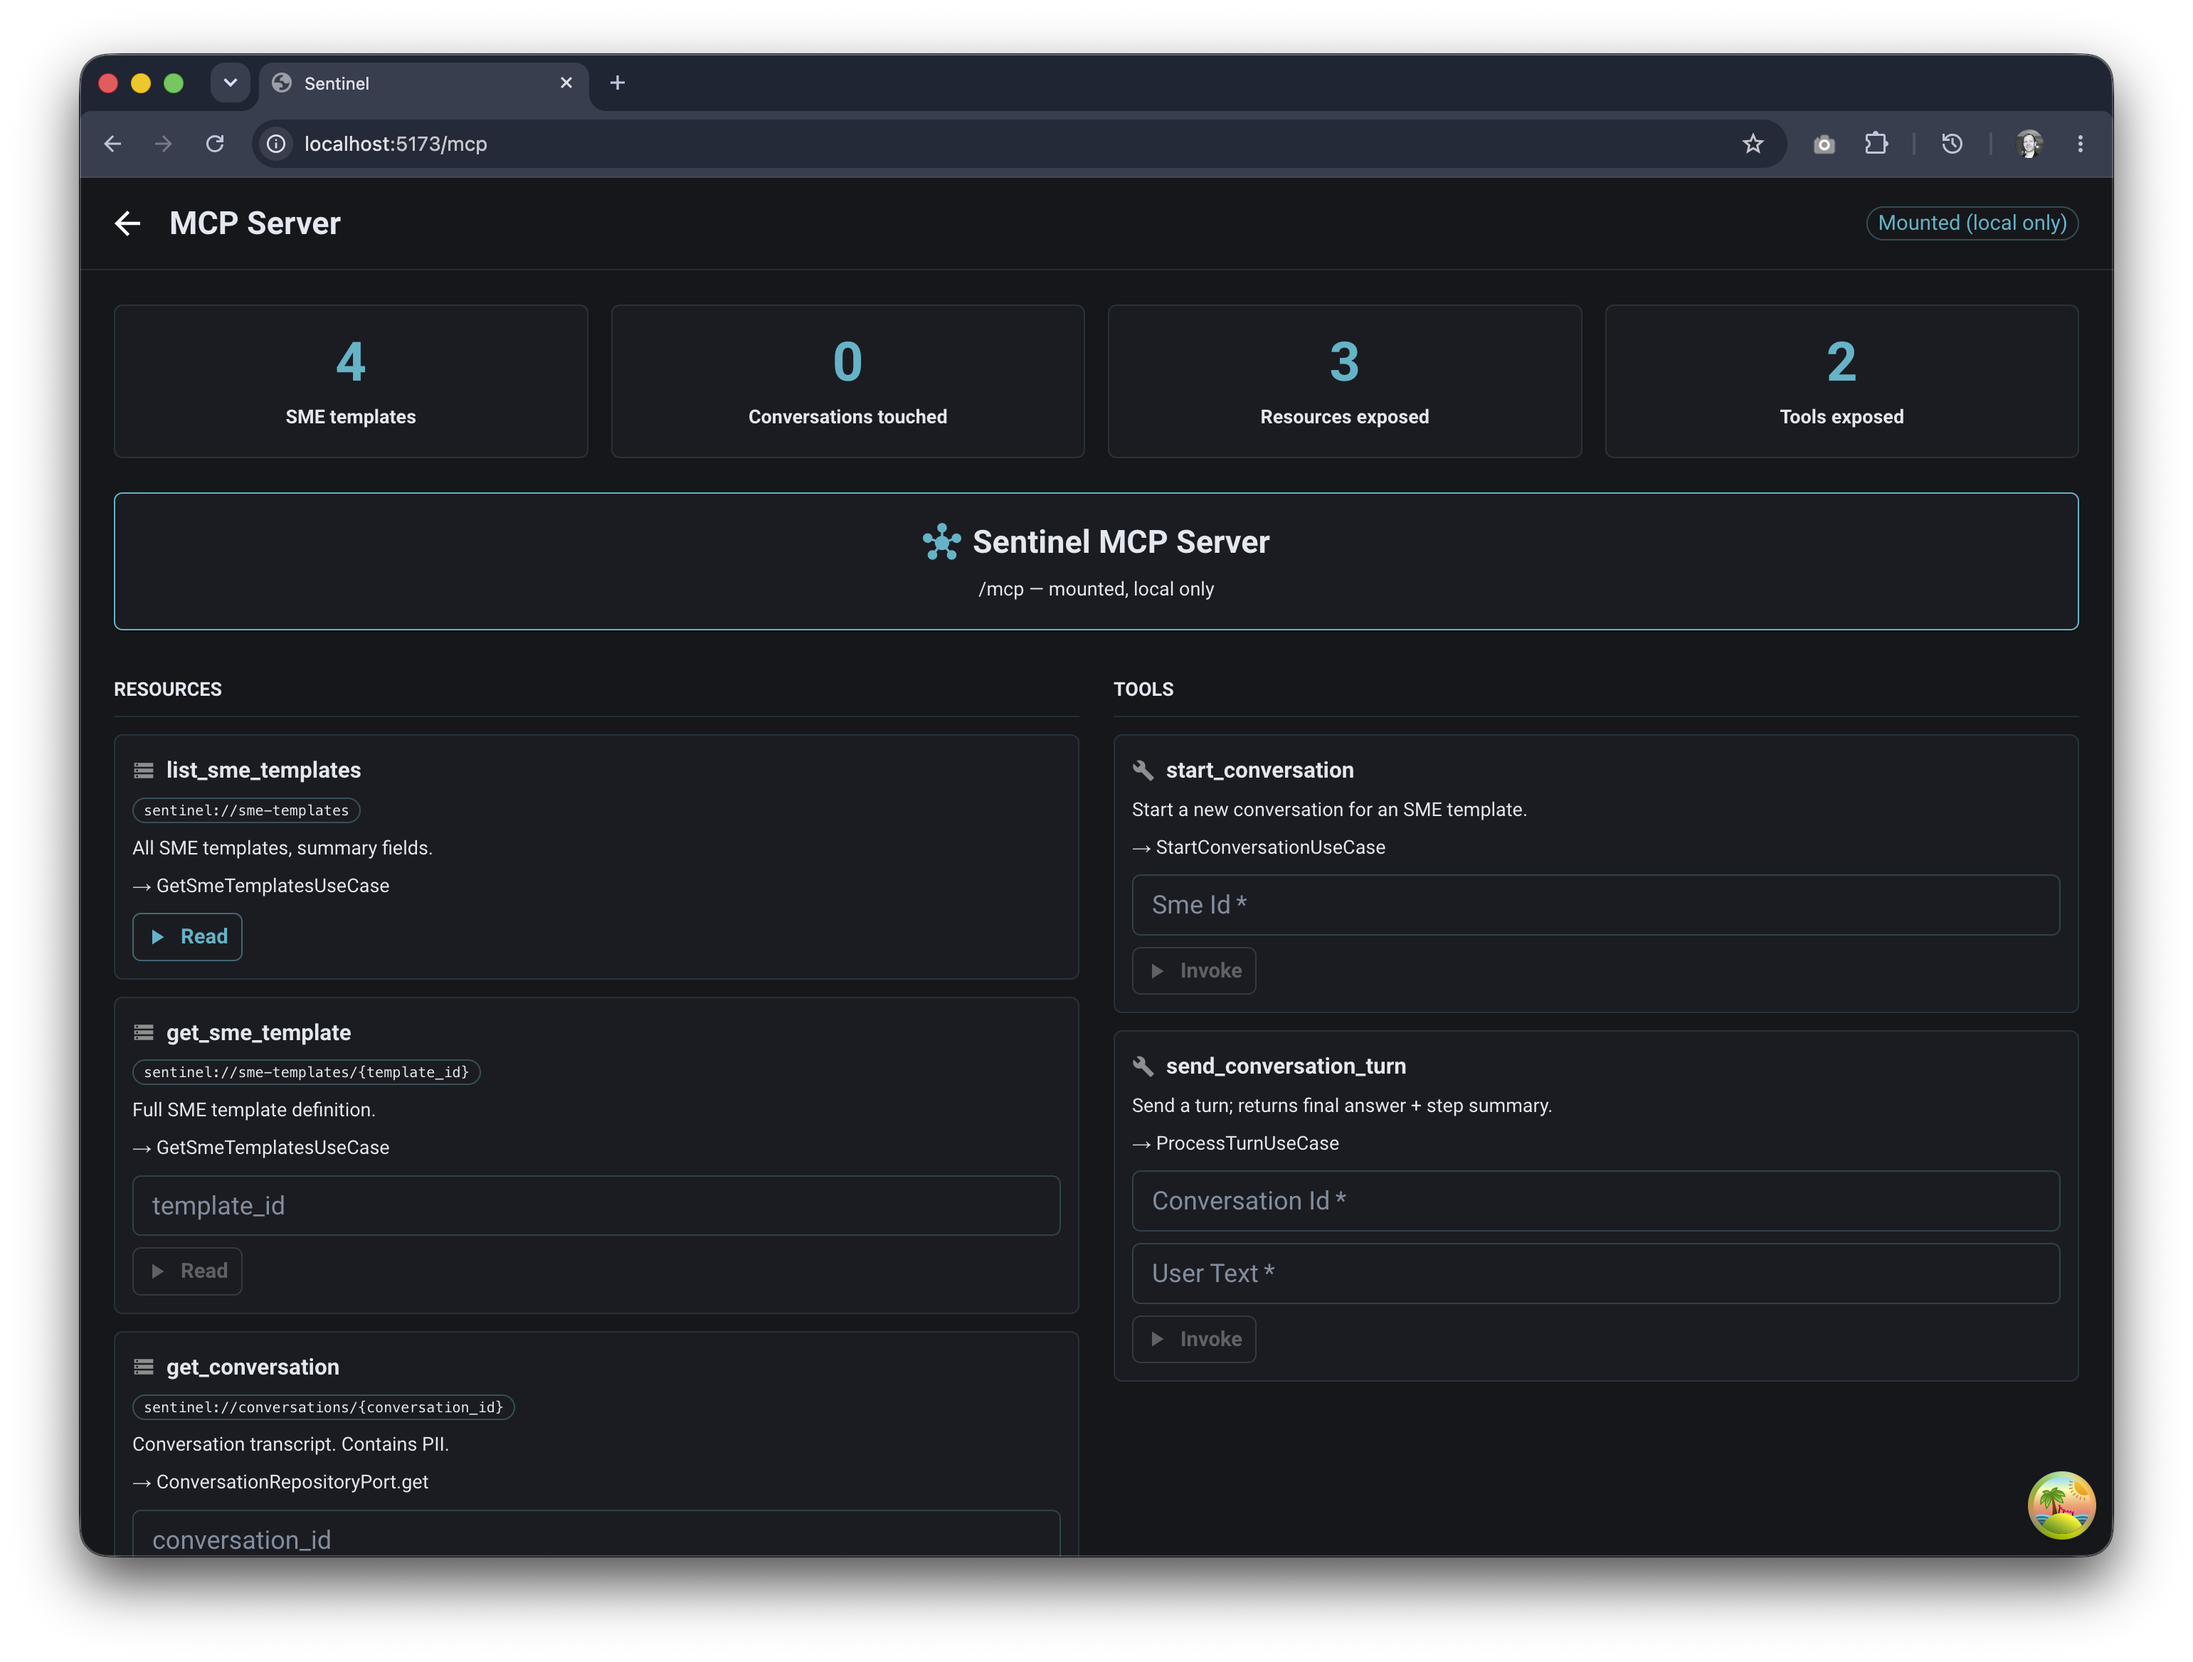
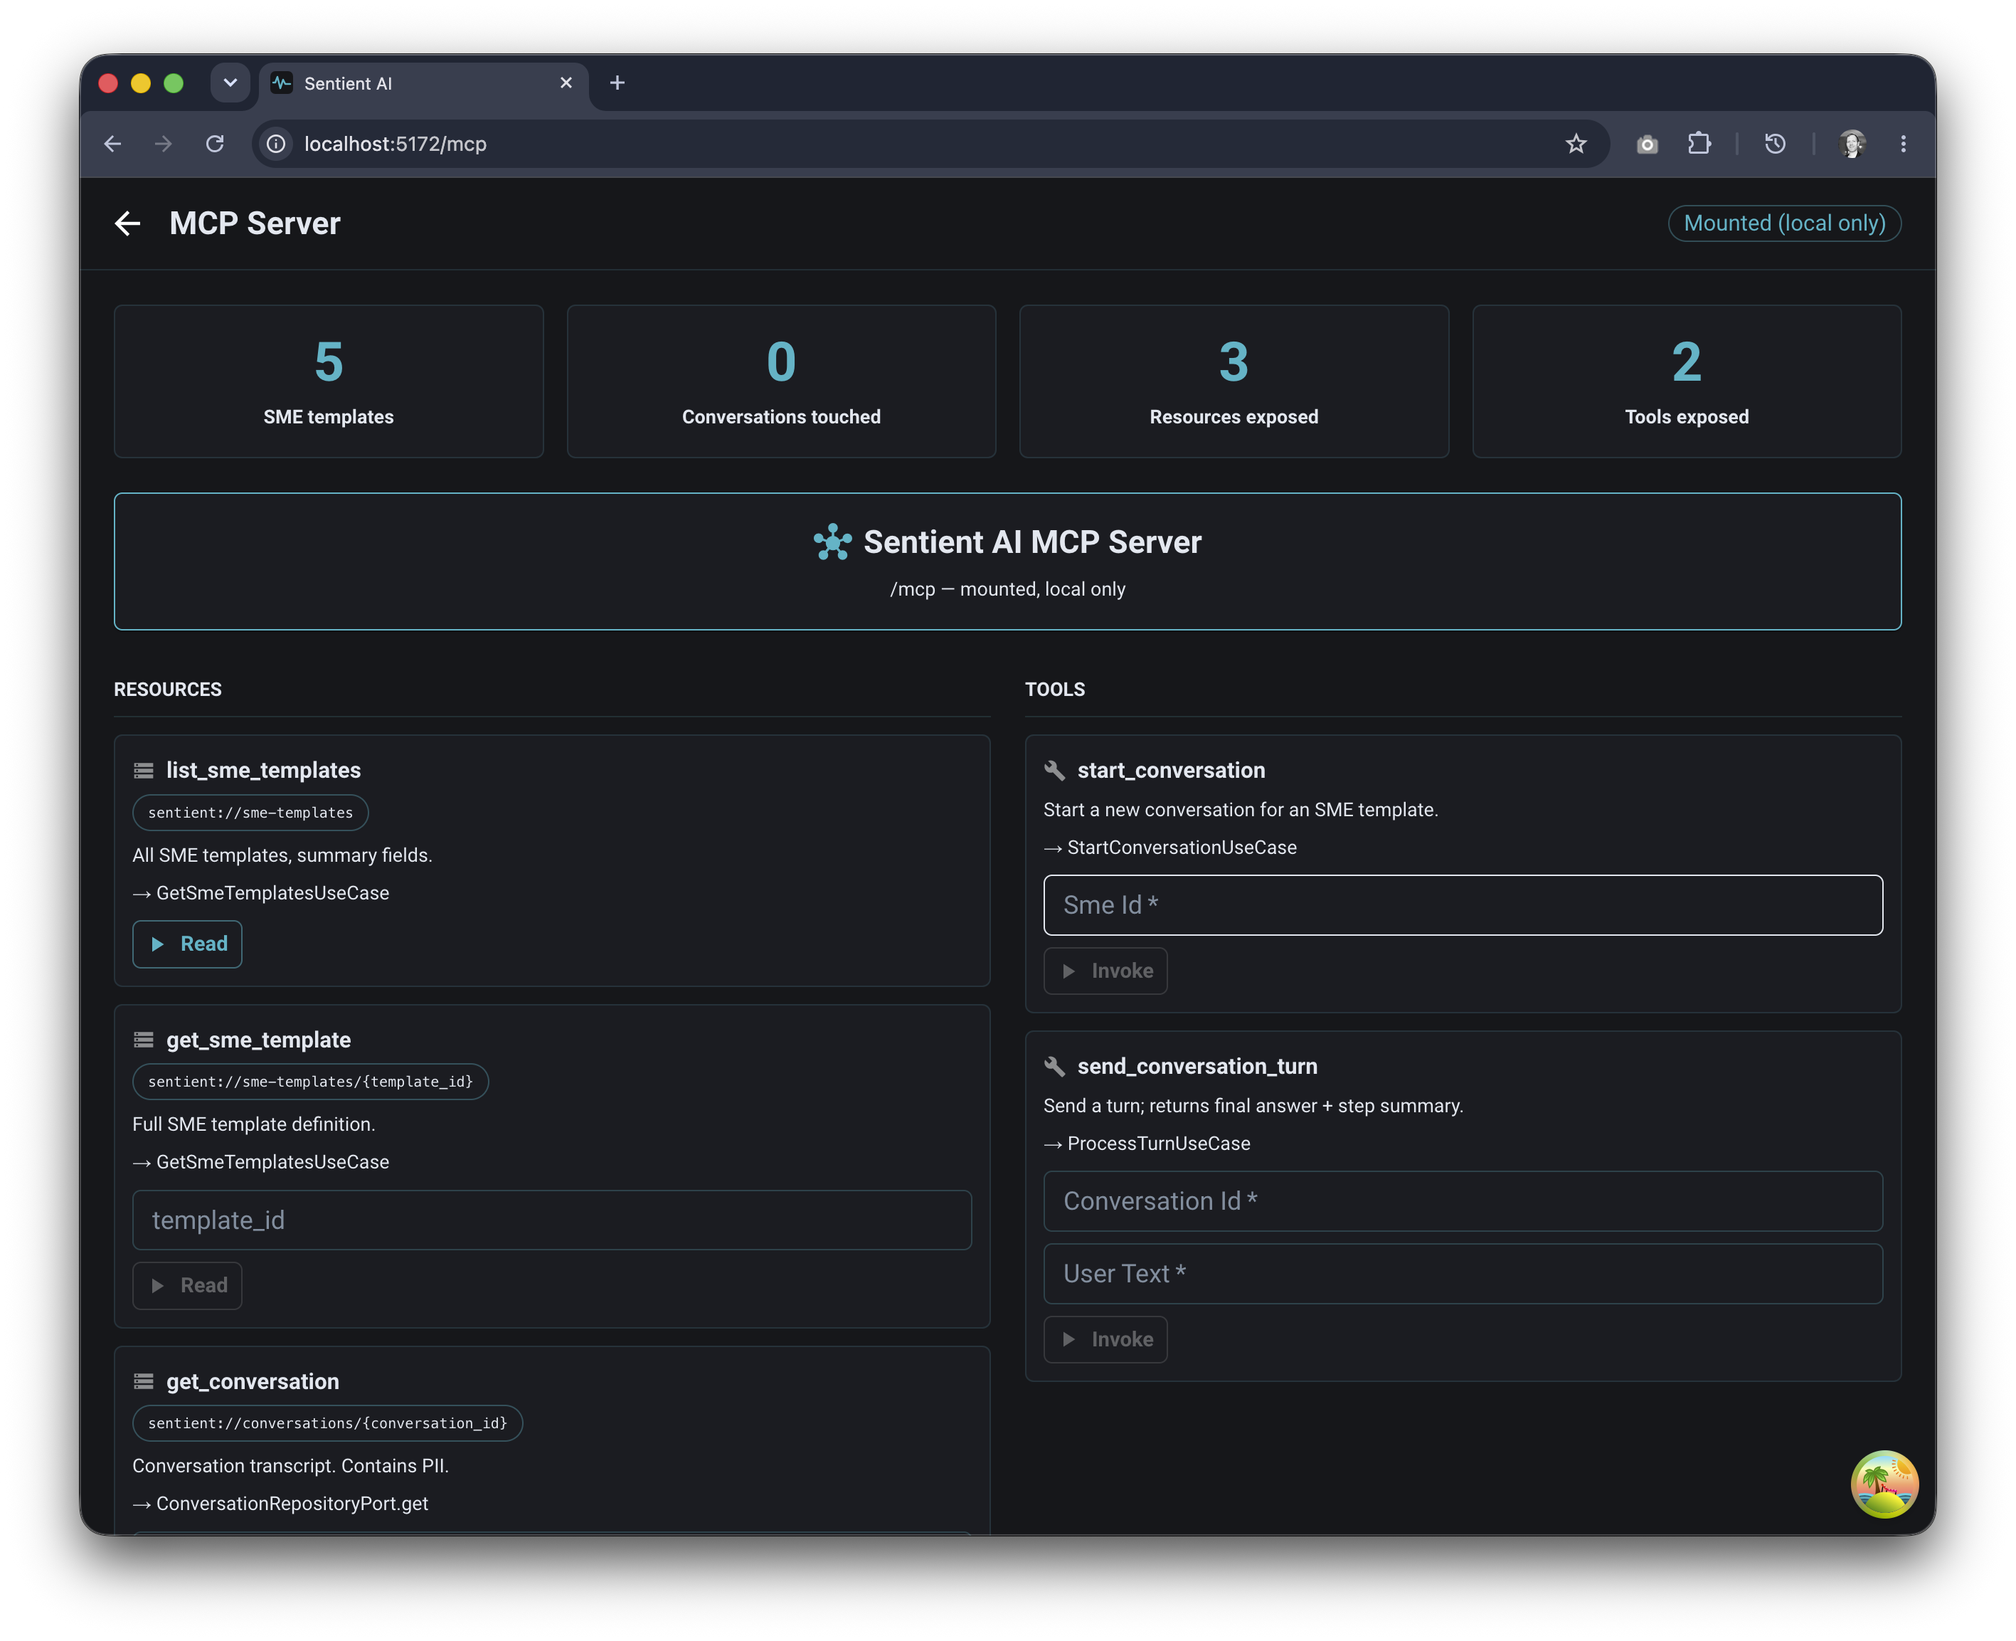
docs(web): refresh product screenshots, tweak transcript header padding
Updated screenshots reflecting the current UI (model selection, showcase
changes, etc.) and rebuilt the static showcase bundle to match. Also
nudges the transcript drawer header's vertical padding to 26px.

diff --git a/apps/web/src/features/transcript/TranscriptDrawer.tsx b/apps/web/src/features/transcript/TranscriptDrawer.tsx
@@ -209,7 +209,7 @@ export function TranscriptDrawer({ open, onClose, messages, steps, stepsByMsgId,
           borderBottom: "1px solid",
           borderColor: "divider",
           flexShrink: 0,
-          py: "22px",
+          py: "26px",
         }}
       >
         <Typography variant="h6" component="h2">
